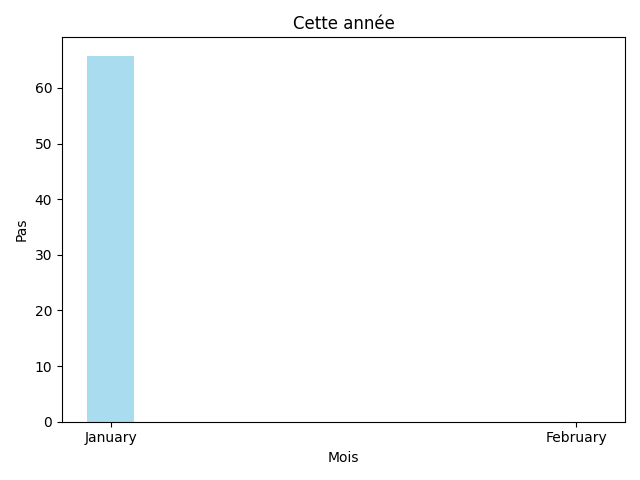
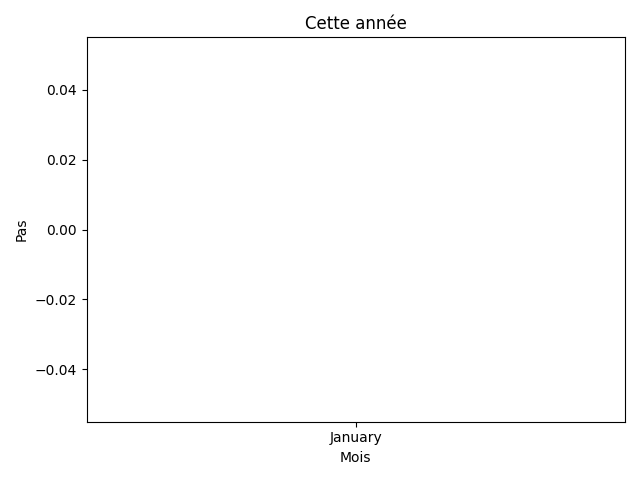
d
Bug correction, the graphic now works for all dates

diff --git a/main/data_show.py b/main/data_show.py
@@ -9,35 +9,30 @@ def create_x_days_graph(the_data_label, list_of_the_data_to_graph, number_of_day
     today = datetime.datetime.now()
     day = today.day
     month = today.month
-    year = today.year
-    month_name = calendar.month_name[today.month]
     if number_of_days < 10:
-        for i in range(1, number_of_days+1):
-            day = day-number_of_days+i
-            if day < 1:
-                if month == 1:
-                    month = 12
-                    year -= 1
-                else:
-                    month -= 1
-                day = calendar.monthrange(year, month)[1] + day
-            labels.append(f"{day} {month_name}")
+        for i in range(number_of_days):
+            date = today - datetime.timedelta(days=number_of_days - 1 - i)
+            day = date.day
+            if day == 1:
+                extend = 'st'
+            elif day == 2:
+                extend = 'nd'
+            elif day == 3:
+                extend = 'rd'
+            else:
+                extend = 'th'
+            # Format spécial pour le 1er du mois
+            labels.append(f"{day}{extend} {calendar.month_name[date.month]} {date.year}")
             
-    else:
-        for i in range(1, number_of_days+1):
-            day = day-number_of_days+i
-            if day < 1:
-                if month == 1:
-                    month = 12
-                    year -= 1
-                else:
-                    month -= 1
-                day = calendar.monthrange(year, month)[1] + day
-               
+    else : 
+        for i in range (number_of_days):
+            date = today - datetime.timedelta(days=number_of_days - 1 - i)
+            day = date.day
+            month = date.month
             labels.append(
-                f"{'0' if (day - number_of_days + i) < 10 else ''}{day - number_of_days + i}"
+                f"{'0' if (day) < 10 else ''}{day}"
                 f"/{'0' if int(month) < 10 else ''}{month}"
-            )
+            )     
 
     # Création de la figure et de l'axe
     fig, ax1 = plt.subplots(figsize=(11.5, 5.75))

diff --git a/main/app.py b/main/app.py
@@ -37,5 +37,5 @@ for rule in app.url_map.iter_rules():
     print(rule)
 
 if __name__ =='__main__':
-    app.run(debug=True)
+    app.run(debug=True, port = 5002)
 
